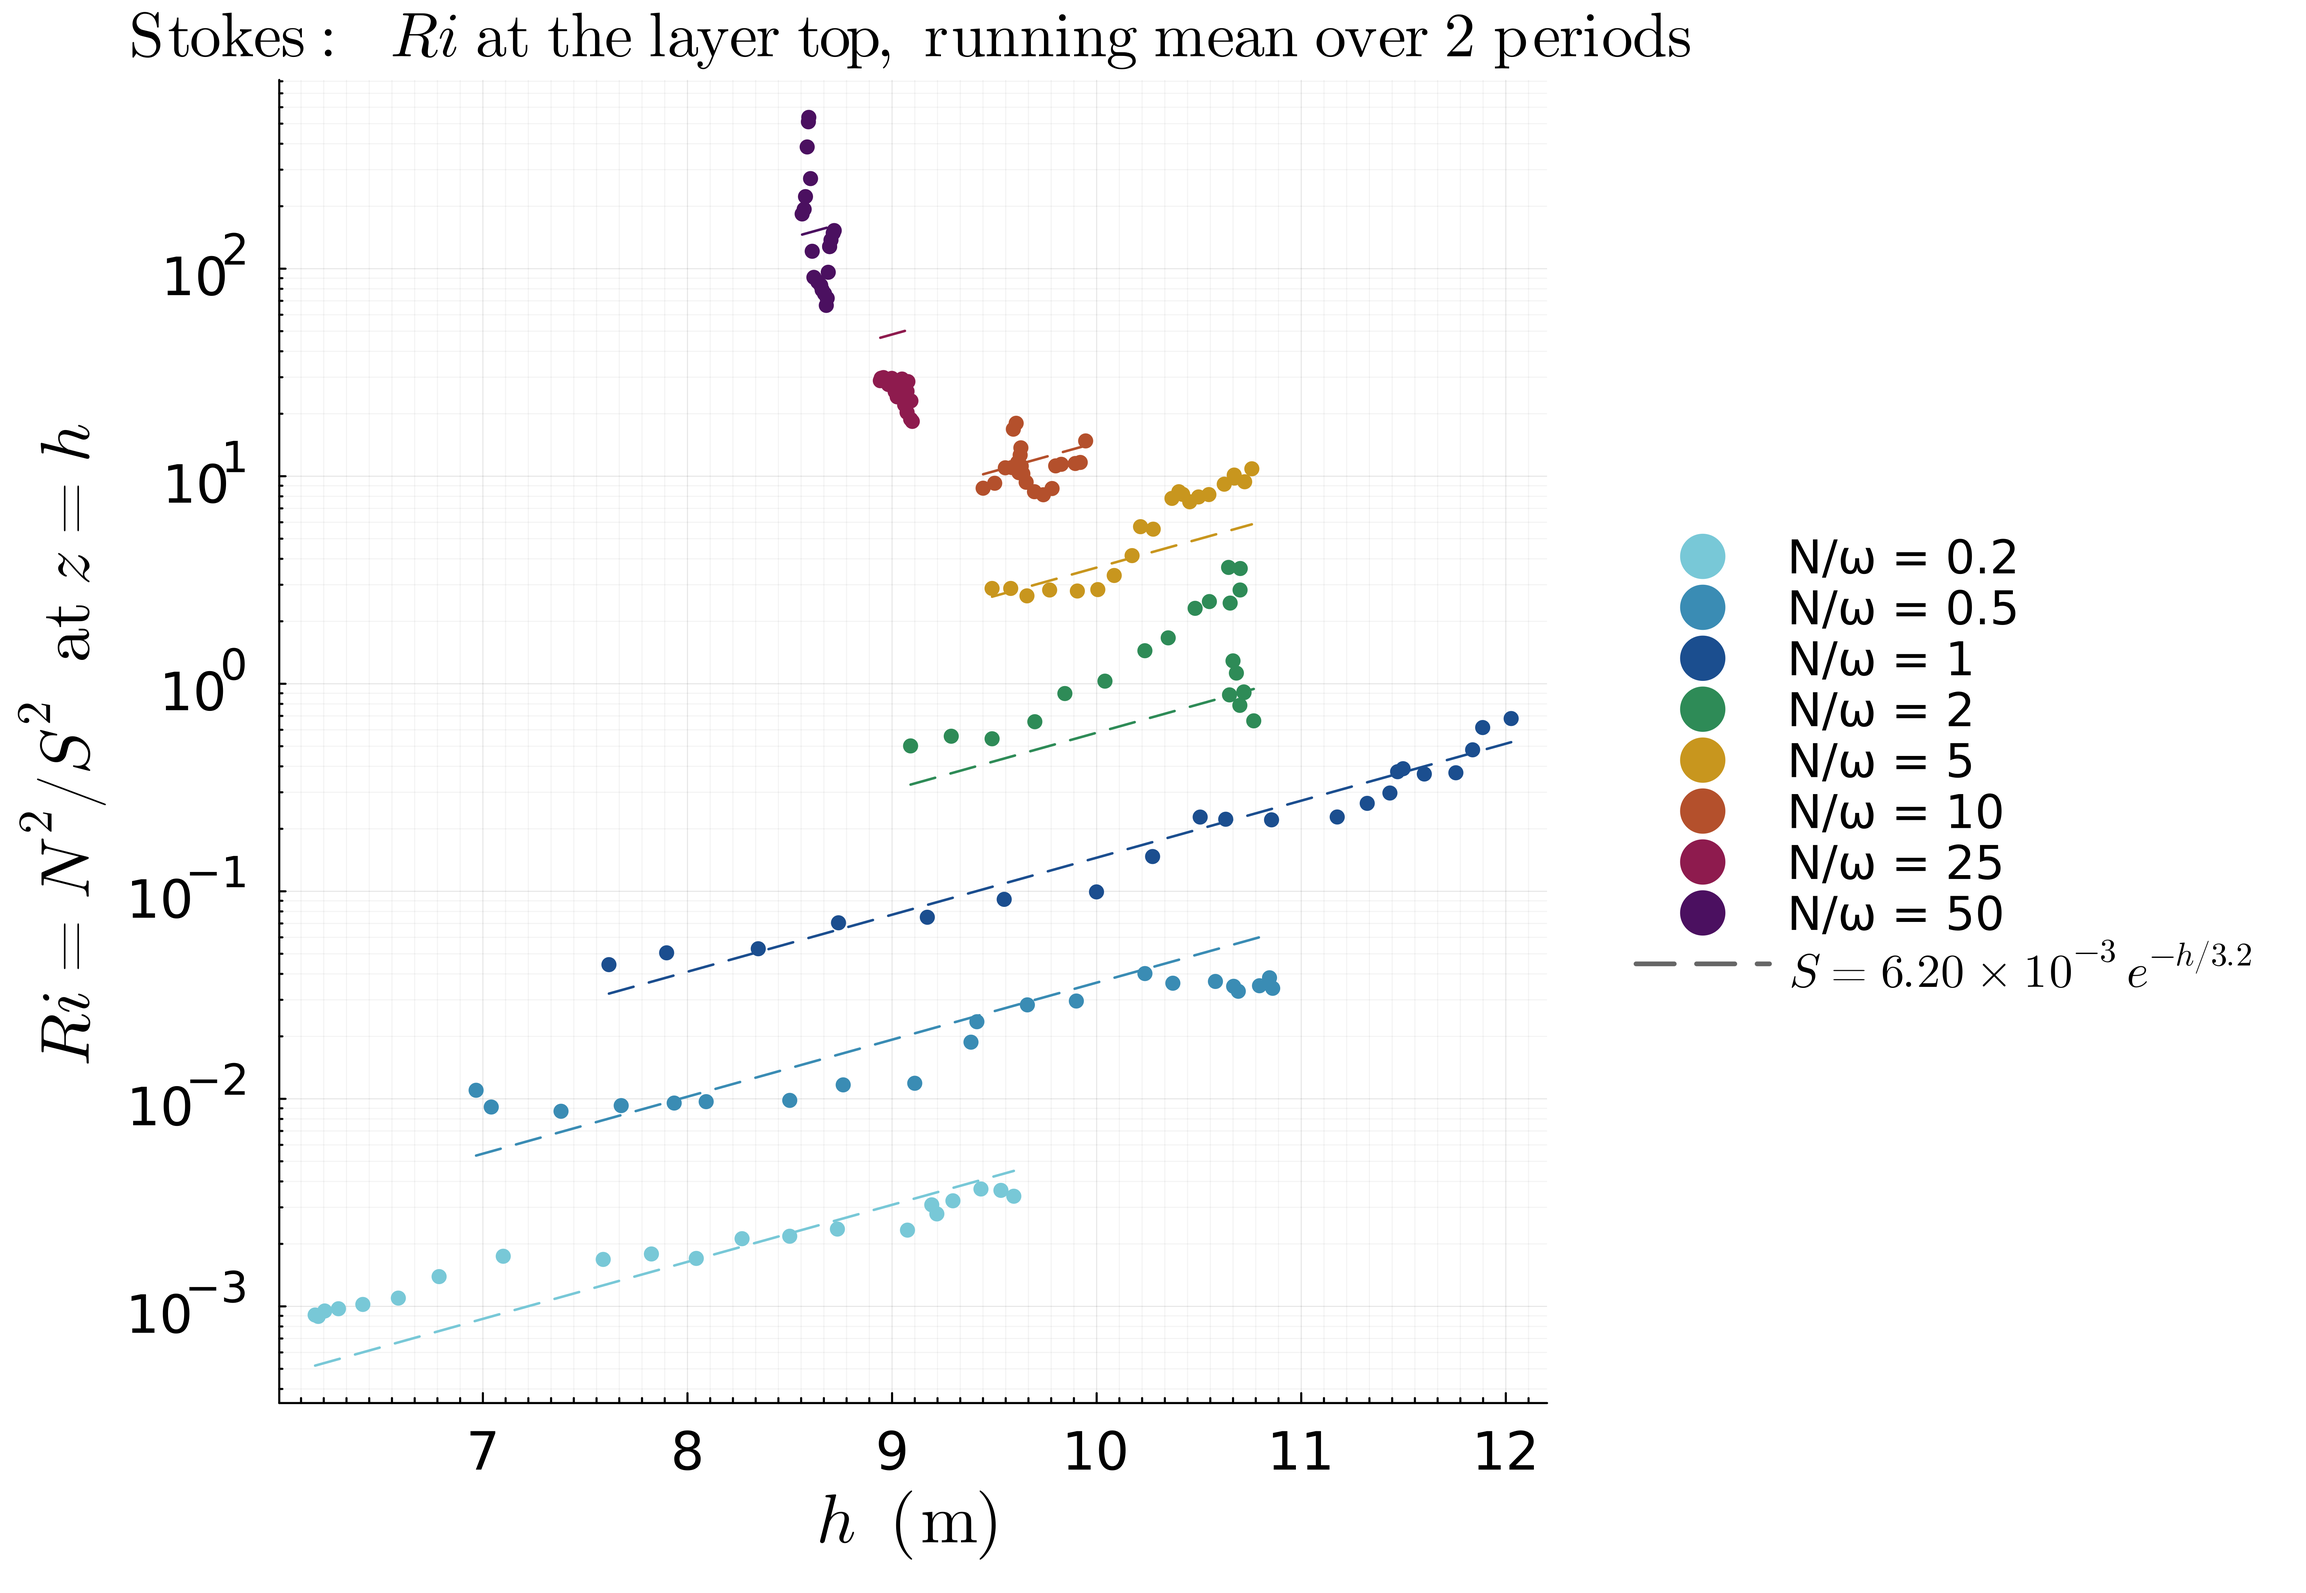
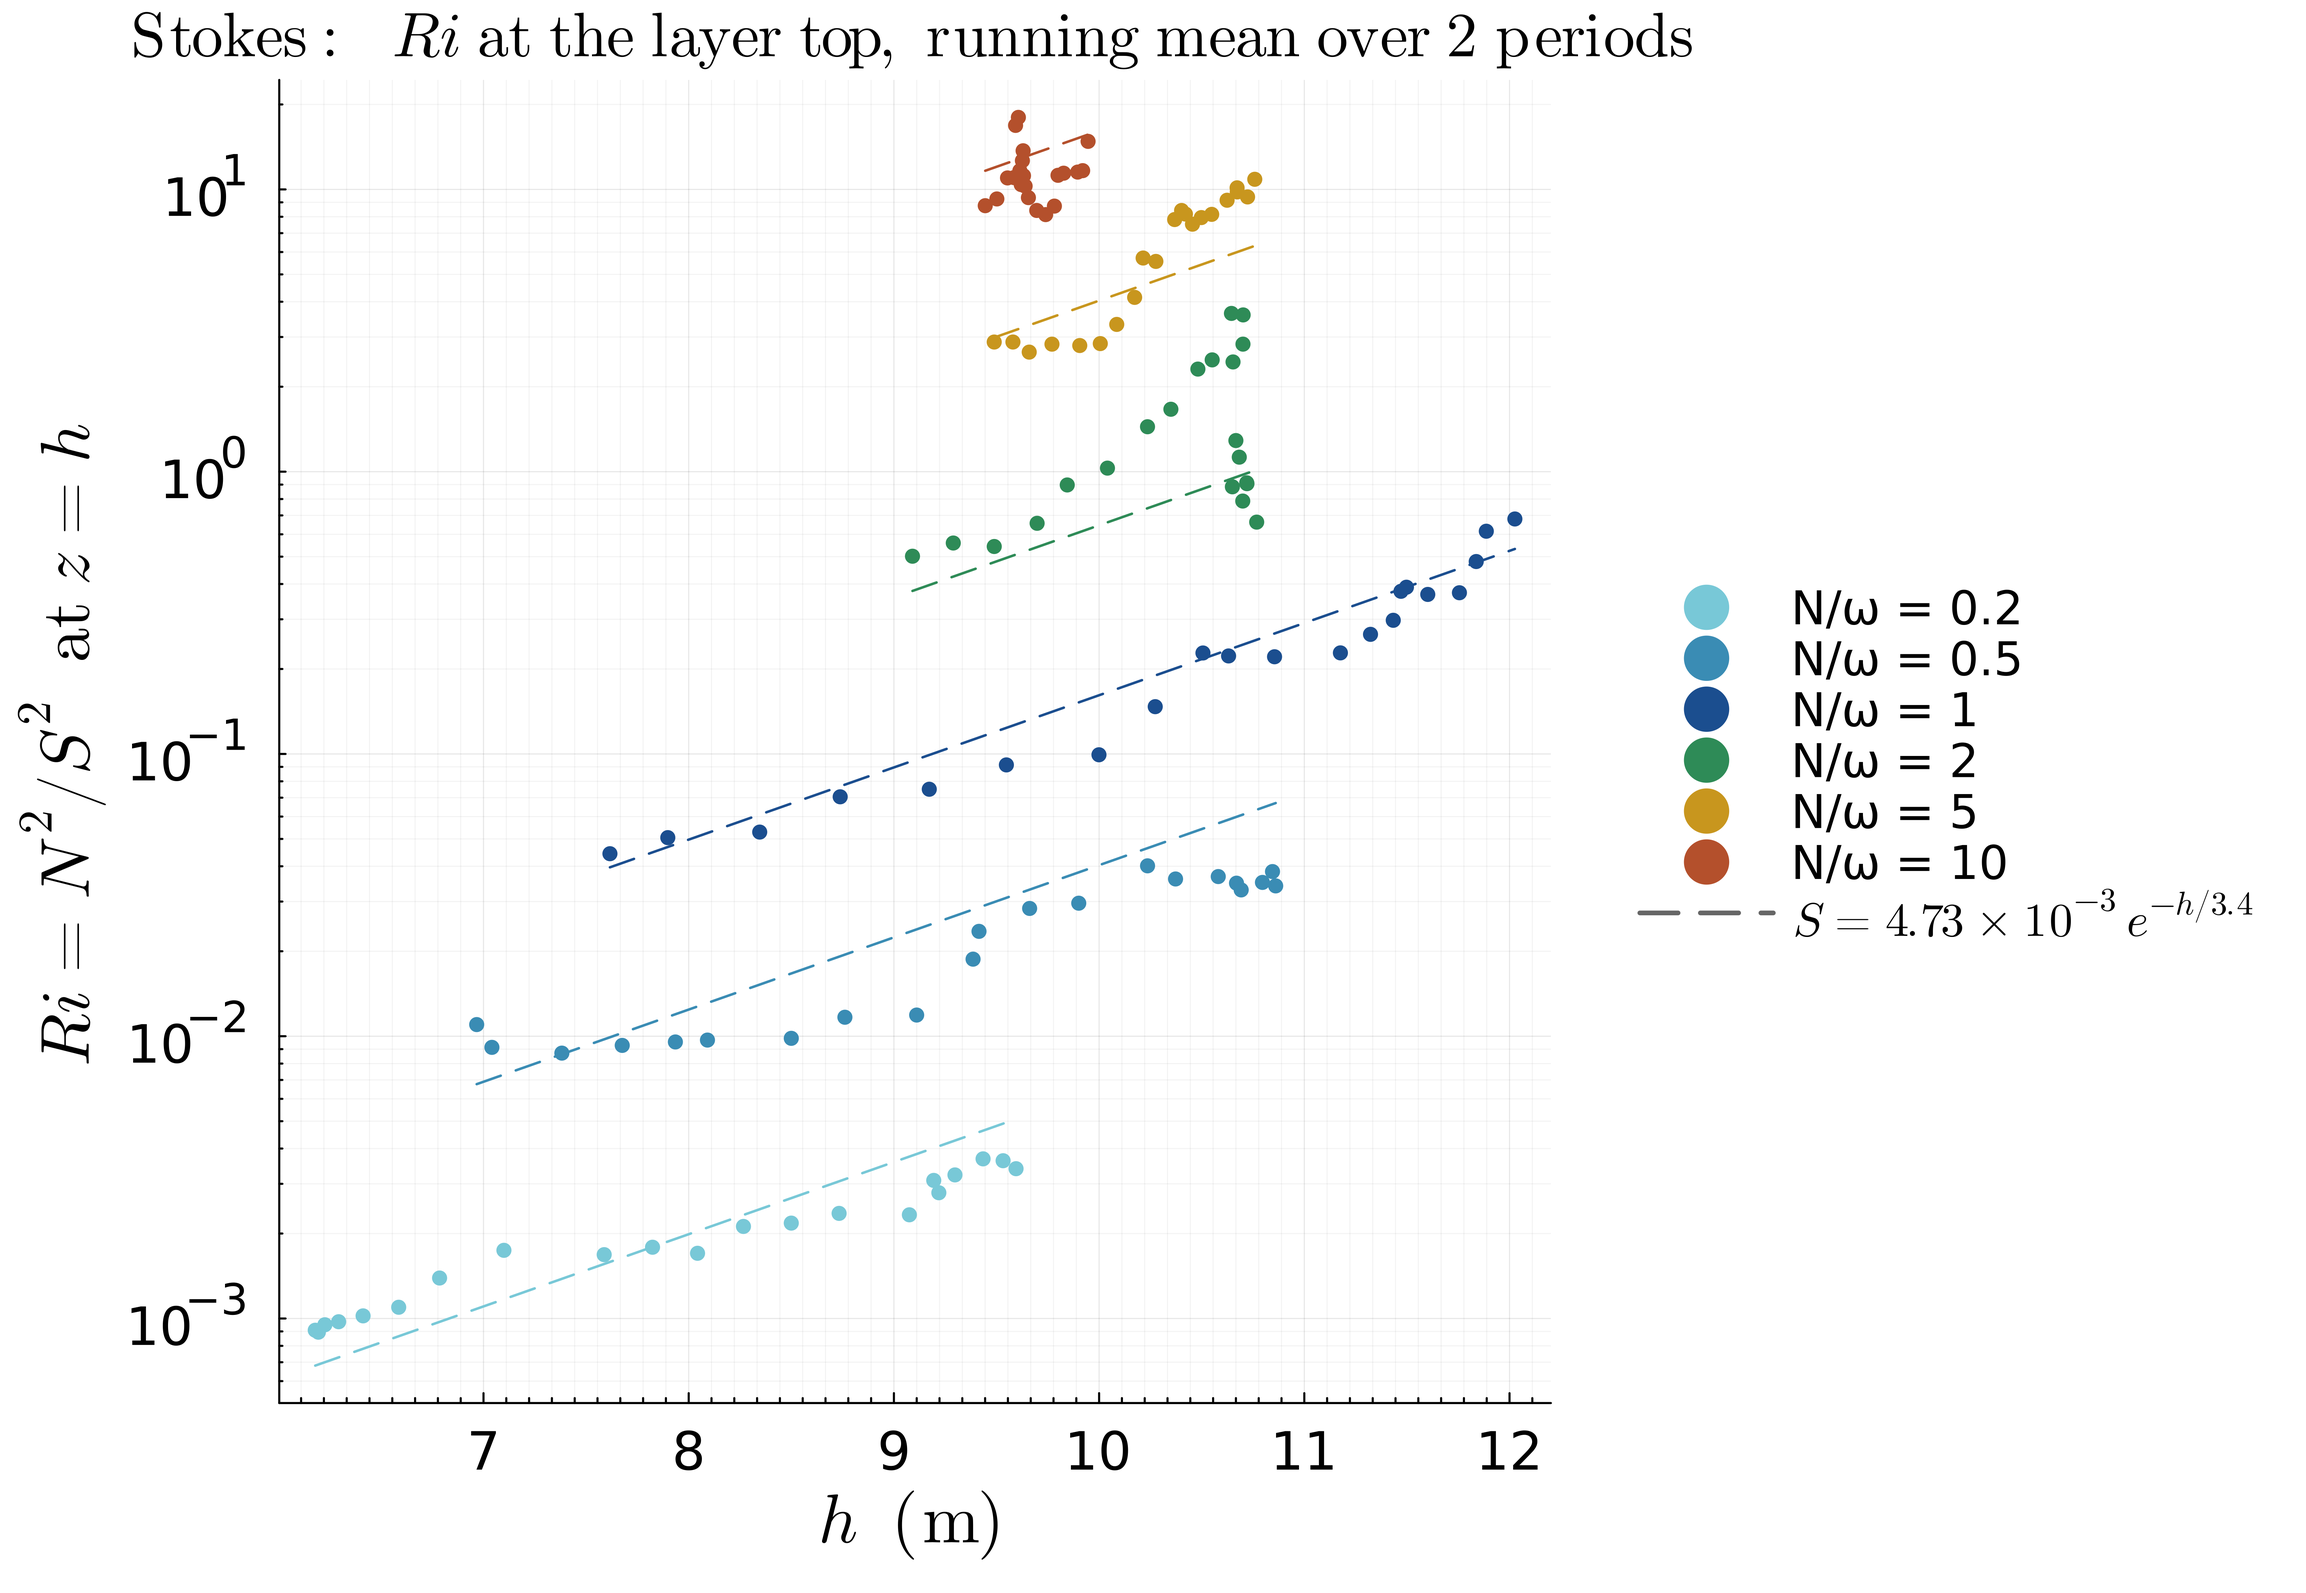
combined figures

diff --git a/Combined/tables/growth_times_T10.tex b/Combined/tables/growth_times_T10.tex
@@ -1,35 +1,33 @@
 \begin{table}[h]
 \centering
-\caption{Stokes: time (hours) for the mixed layer to reach height $h$, from $dh/dt = 2K_T/h$ with $\sqrt{Ri}$ held at its measured value at $h$.}
+\caption{Stokes: time (years) for the mixed layer to reach height $h$, from $dh/dt = 2K_T/h$ with $\sqrt{Ri}$ held at its measured value at $h$.}
 \begin{tabular}{rrrrrrr}
 \hline
 $N/\omega$ & $h = 10$\,m & $h = 20$\,m & $h = 30$\,m & $h = 40$\,m & $h = 50$\,m & $h = 60$\,m \\
 \hline
-0.2 & $1.5\times10^{1}$ & $9.9\times10^{2}$ & $4.3\times10^{4}$ & $1.6\times10^{6}$ & $5.5\times10^{7}$ & $1.8\times10^{9}$ \\
-0.5 & $1.4\times10^{1}$ & $8.9\times10^{2}$ & $3.7\times10^{4}$ & $1.3\times10^{6}$ & $4.4\times10^{7}$ & $1.4\times10^{9}$ \\
-1 & $1.2\times10^{1}$ & $8.1\times10^{2}$ & $3.7\times10^{4}$ & $1.5\times10^{6}$ & $5.3\times10^{7}$ & $1.8\times10^{9}$ \\
-2 & $1.7\times10^{1}$ & $1.3\times10^{3}$ & $6.1\times10^{4}$ & $2.6\times10^{6}$ & $1.0\times10^{8}$ & $3.8\times10^{9}$ \\
-5 & $3.6\times10^{1}$ & $2.9\times10^{3}$ & $1.6\times10^{5}$ & $7.4\times10^{6}$ & $3.2\times10^{8}$ & $1.3\times10^{10}$ \\
-10 & $7.1\times10^{1}$ & $6.1\times10^{3}$ & $3.5\times10^{5}$ & $1.7\times10^{7}$ & $8.0\times10^{8}$ & $3.5\times10^{10}$ \\
-25 & $1.9\times10^{2}$ & $1.9\times10^{4}$ & $1.2\times10^{6}$ & $7.1\times10^{7}$ & $3.8\times10^{9}$ & $1.9\times10^{11}$ \\
-50 & $3.9\times10^{2}$ & $4.3\times10^{4}$ & $3.2\times10^{6}$ & $2.1\times10^{8}$ & $1.3\times10^{10}$ & $7.3\times10^{11}$ \\
+0.2 & $1.7\times10^{-3}$ & $1.1\times10^{-1}$ & $4.7\times10^{0}$ & $1.7\times10^{2}$ & $5.9\times10^{3}$ & $1.9\times10^{5}$ \\
+0.5 & $1.6\times10^{-3}$ & $1.0\times10^{-1}$ & $4.1\times10^{0}$ & $1.4\times10^{2}$ & $4.7\times10^{3}$ & $1.5\times10^{5}$ \\
+1 & $1.4\times10^{-3}$ & $9.2\times10^{-2}$ & $4.1\times10^{0}$ & $1.6\times10^{2}$ & $5.6\times10^{3}$ & $1.9\times10^{5}$ \\
+2 & $2.0\times10^{-3}$ & $1.4\times10^{-1}$ & $6.8\times10^{0}$ & $2.8\times10^{2}$ & $1.1\times10^{4}$ & $3.9\times10^{5}$ \\
+5 & $4.2\times10^{-3}$ & $3.3\times10^{-1}$ & $1.8\times10^{1}$ & $8.0\times10^{2}$ & $3.4\times10^{4}$ & $1.4\times10^{6}$ \\
+10 & $8.1\times10^{-3}$ & $6.8\times10^{-1}$ & $3.9\times10^{1}$ & $1.9\times10^{3}$ & $8.5\times10^{4}$ & $3.7\times10^{6}$ \\
 \hline
 \end{tabular}
 \end{table}
 
 \begin{table}[h]
 \centering
-\caption{Ekman: time (hours) for the mixed layer to reach height $h$, from $dh/dt = 2K_T/h$ with $\sqrt{Ri}$ held at its measured value at $h$.}
+\caption{Ekman: time (years) for the mixed layer to reach height $h$, from $dh/dt = 2K_T/h$ with $\sqrt{Ri}$ held at its measured value at $h$.}
 \begin{tabular}{rrrrrrr}
 \hline
 $N/f$ & $h = 10$\,m & $h = 20$\,m & $h = 30$\,m & $h = 40$\,m & $h = 50$\,m & $h = 60$\,m \\
 \hline
-0.2 & $2.8\times10^{-1}$ & $4.1\times10^{0}$ & $3.6\times10^{1}$ & $2.7\times10^{2}$ & $1.8\times10^{3}$ & $1.2\times10^{4}$ \\
-0.5 & $5.2\times10^{-1}$ & $7.9\times10^{0}$ & $7.3\times10^{1}$ & $5.7\times10^{2}$ & $4.0\times10^{3}$ & $2.7\times10^{4}$ \\
-1 & $8.6\times10^{-1}$ & $1.5\times10^{1}$ & $1.5\times10^{2}$ & $1.3\times10^{3}$ & $1.1\times10^{4}$ & $8.1\times10^{4}$ \\
-2 & $2.0\times10^{0}$ & $4.3\times10^{1}$ & $5.9\times10^{2}$ & $6.8\times10^{3}$ & $7.1\times10^{4}$ & $7.2\times10^{5}$ \\
-5 & $8.3\times10^{0}$ & $3.2\times10^{2}$ & $7.8\times10^{3}$ & $1.7\times10^{5}$ & $3.2\times10^{6}$ & $6.0\times10^{7}$ \\
-10 & $2.8\times10^{1}$ & $2.0\times10^{3}$ & $9.2\times10^{4}$ & $3.7\times10^{6}$ & $1.4\times10^{8}$ & $5.0\times10^{9}$ \\
+0.2 & $3.5\times10^{-5}$ & $5.1\times10^{-4}$ & $4.6\times10^{-3}$ & $3.4\times10^{-2}$ & $2.3\times10^{-1}$ & $1.5\times10^{0}$ \\
+0.5 & $6.5\times10^{-5}$ & $9.9\times10^{-4}$ & $9.2\times10^{-3}$ & $7.1\times10^{-2}$ & $5.0\times10^{-1}$ & $3.4\times10^{0}$ \\
+1 & $1.1\times10^{-4}$ & $1.8\times10^{-3}$ & $1.9\times10^{-2}$ & $1.7\times10^{-1}$ & $1.3\times10^{0}$ & $1.0\times10^{1}$ \\
+2 & $2.5\times10^{-4}$ & $5.5\times10^{-3}$ & $7.4\times10^{-2}$ & $8.5\times10^{-1}$ & $8.9\times10^{0}$ & $9.0\times10^{1}$ \\
+5 & $1.0\times10^{-3}$ & $4.0\times10^{-2}$ & $9.8\times10^{-1}$ & $2.1\times10^{1}$ & $4.0\times10^{2}$ & $7.5\times10^{3}$ \\
+10 & $3.5\times10^{-3}$ & $2.5\times10^{-1}$ & $1.2\times10^{1}$ & $4.7\times10^{2}$ & $1.7\times10^{4}$ & $6.2\times10^{5}$ \\
 \hline
 \end{tabular}
 \end{table}

diff --git a/Combined/README.md b/Combined/README.md
@@ -1171,6 +1171,32 @@ pycnocline (z ≈ T) while Ri still wanders — but the same form fits within
 ×1.3. Both fits are dimensional (S₀, ℓ in s⁻¹ and m); whether ℓ scales with δ
 or u_*/f has not been tested on a second u_*.
 
+### Side-by-side slide figures (A4 landscape)                    (2026-10-11)
+
+**Since 2026-10-11 both flows use N/ω, N/f < 25 everywhere** (K_T\*, TKE, Ri, growth).
+The refitted values are:
+- Stokes K_T\*: A = 0.4025.
+- Ekman K_T\*: A = 0.2998.
+- Stokes TKE: A₁ = 3.422, A₂ = 1.460.
+
+Growth times are in years. Values quoted elsewhere in this README that include
+r = 25 and 50 are the older all-r numbers.
+
+Stokes on the left, Ekman on the right, 11.69 × 8.27 in at 600 dpi, for the
+beamer deck. The single-flow figures are still written as before.
+
+| figure | written by |
+|---|---|
+| `figures/growth_pair_T10.png` | `plot/plot_growth_T10.jl` |
+| `figures/KTstar_vs_Ri_pair_T10.png` | `plot/plot_KTstar_Ri_pair_T10.jl` (runs the Stokes and Ekman K_T\* scripts, each in its own module) |
+| `figures/Ri_vs_h_pair_T10.png` | `plot/plot_Ri_vs_h_T10.jl` |
+| `figures/tke_fits_pair_T10.png` | `plot/plot_tke_fits_T10.jl` (Stokes all r, Ekman N/f < 25) |
+
+In the pairs the legends are smaller (12 pt) and moved so that they cover no data:
+- the Stokes Ri panel runs up to 10⁶ to leave room above the points;
+- the Ekman TKE panel runs up to z/δ = 1.75 for the same reason;
+- the K_T\* x-label is shortened to √Ri = N/S, with "N background" in the title.
+
 ### Stage 3 — the δ model for K_T
 
 `figures/KT_delta_model_T10.png`. Does `L_K/δ` against `L_harm/δ` collapse both

diff --git a/Combined/HANDOVER.md b/Combined/HANDOVER.md
@@ -59,7 +59,7 @@ STANDING RULES:
   Scripts live one level down and are invoked with their folder, e.g.
   `GKSwstype=100 julia --project=. plot/plot_delta_T10.jl`. The layout is
       Combined/sweep.jl, mixed_layer_height.jl   shared, included by everything
-      Combined/plot/     the 18 plot_* scripts (+ tables/ for .tex)
+      Combined/plot/     the 19 plot_* scripts (+ tables/ for .tex)
       Combined/reduce/   the 3 reduce_* scripts
       Combined/run/      ekmanrun.jl, swirles.sh
       Combined/Data/raw/      Ekman, Ekman_moments, lowN, rough_ekman
@@ -247,3 +247,13 @@ GOTCHAS THAT COST TIME TO FIND:
   spaces inside \mathrm{} unless escaped, and prints %g as "2.16e + 03".
 - Piping a Julia run into `head` SIGPIPE-kills it before it writes its figures.
 ```
+
+SLIDE PAIRS (2026-10-11): growth, K_T*, Ri vs h and TKE fits each also come as
+one A4-landscape figure with Stokes left and Ekman right
+(figures/*_pair_T10.png). The K_T* pair comes from plot_KTstar_Ri_pair_T10.jl,
+which includes the two single-flow scripts in separate modules. When legends
+change, check the pairs by eye: the legends are placed by hand in empty corners.
+SINCE 2026-10-11 the closure uses r < 25 for BOTH flows (DROP = 25 in the K_T*,
+TKE, Ri and growth scripts). Constants: Stokes A 0.4025, A1 3.422, A2 1.460;
+Ekman A 0.2998, A1 1.718, A2 5.680. Growth times are in years. If a fit changes,
+copy the new constants into the FL table in plot_growth_T10.jl by hand.
